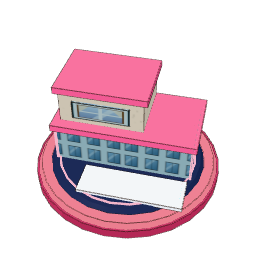
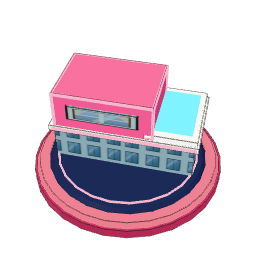
Neon City tiers 1-10: futuristic silhouettes instead of ordinary houses
Claude-Session: https://claude.ai/code/session_01V4YyAKihYYsoGwYTXiWyG9

Changed region(s): [[0.125, 0.1875, 0.875, 0.9375]]

diff --git a/src/models/neon.ts b/src/models/neon.ts
@@ -1,5 +1,5 @@
+import * as THREE from 'three';
 import { Builder, base, shade } from './kit';
-import { house } from './parts';
 import { neonBox, neonRings, panes } from './themekit';
 
 /**
@@ -30,147 +30,163 @@ function door(b: Builder, x: number, z: number, y: number, color: string, w = 0.
   b.box(w + 0.03, 0.014, 0.02, 'glow', lit(color), { x, z: z + 0.004, y: y + h });
 }
 
-/** 1 Power Cube: a solid block in the tier colour with a glowing band (the neon "brick"). */
-const powerCube: Build = (_H, color) => {
-  const b = new Builder();
-  const y = base(b, color);
-  b.box(0.5, 0.3, 0.42, 'gloss', color, { y }, 0.05);
-  b.box(0.52, 0.035, 0.44, 'glow', lit(color), { y: y + 0.13 });
-  for (const x of [-0.13, 0.13]) b.box(0.12, 0.014, 0.12, 'glow', '#ffffff', { x, y: y + 0.3 });
-  return b.finish();
-};
+/** Thick neon strip (reads at small sizes). */
+function strip(b: Builder, w: number, h: number, d: number, color: string, at: { x?: number; y: number; z?: number; rx?: number; ry?: number; rz?: number }) {
+  b.box(w, h, d, 'glow', color, at);
+}
 
-/** 2 Capsule Hut: a tiny white hut with a rounded roof in the tier colour and a round window. */
-const capsuleHut: Build = (_H, color) => {
+/** 1 Neon Cube: a block in the tier colour, outlined in neon, with a glowing visor slit. */
+const neonCube: Build = (_H, color) => {
   const b = new Builder();
   const y = deck(b, base(b, color), color);
-  b.box(0.5, 0.2, 0.38, 'plaster', WHITE, { y });
-  // Barrel roof: a cylinder lying along x, half sunk into the walls.
-  b.cyl(0.2, 0.2, 0.56, 'gloss', color, { y: y + 0.2, x: -0.28, rz: -Math.PI / 2 }, 18);
-  b.cyl(0.205, 0.205, 0.02, 'glow', lit(color), { y: y + 0.2, x: -0.29, rz: -Math.PI / 2 }, 18);
-  b.cyl(0.205, 0.205, 0.02, 'glow', lit(color), { y: y + 0.2, x: 0.27, rz: -Math.PI / 2 }, 18);
-  door(b, -0.1, 0.19, y, color, 0.1, 0.16);
-  b.cyl(0.05, 0.05, 0.016, 'pane', '#ffffff', { x: 0.12, z: 0.19, y: y + 0.1, rx: Math.PI / 2 }, 16);
+  b.box(0.42, 0.32, 0.42, 'gloss', color, { y }, 0.02);
+  neonBox(b, 0.42, 0.32, 0.42, y, lit(color));
+  strip(b, 0.3, 0.05, 0.02, '#ffffff', { y: y + 0.19, z: 0.21 });
+  b.cyl(0.008, 0.008, 0.1, 'gloss', WHITE, { y: y + 0.32, x: 0.12 }, 5);
+  b.sphere(0.022, 'glow', lit(color), { y: y + 0.43, x: 0.12 }, 8);
   return b.finish();
 };
 
-/** 3 Neon Garage: a small garage with a sloped roof and a glowing striped door. */
-const garage: Build = (_H, color) => {
+/** 2 Pod Home: a tiny white pod with a tilted roof in the tier colour, a porthole and a glowing door. */
+const podHome: Build = (_H, color) => {
   const b = new Builder();
   const y = deck(b, base(b, color), color);
-  b.box(0.56, 0.26, 0.44, 'plaster', WHITE, { y });
-  b.box(0.62, 0.04, 0.52, 'gloss', color, { y: y + 0.27, rx: 0.16 });
-  for (let i = 0; i < 4; i++) b.box(0.3, 0.025, 0.016, 'glow', i % 2 ? '#ffffff' : lit(color), { x: -0.08, z: 0.225, y: y + 0.03 + i * 0.045 });
-  b.box(0.1, 0.1, 0.016, 'pane', GLASS, { x: 0.18, z: 0.225, y: y + 0.1 });
-  b.box(0.58, 0.012, 0.012, 'glow', lit(color), { y: y + 0.26, z: 0.23 });
+  b.box(0.48, 0.24, 0.4, 'plaster', WHITE, { y }, 0.03);
+  b.box(0.56, 0.05, 0.48, 'gloss', color, { y: y + 0.22, rz: 0.18 });
+  strip(b, 0.5, 0.022, 0.022, lit(color), { y: y + 0.2, z: 0.21 });
+  door(b, -0.12, 0.2, y, color, 0.1, 0.16);
+  b.cyl(0.055, 0.055, 0.02, 'pane', GLASS, { x: 0.1, z: 0.2, y: y + 0.11, rx: Math.PI / 2 }, 16);
+  b.torus(0.06, 0.01, 'glow', lit(color), { x: 0.1, z: 0.212, y: y + 0.11, rx: Math.PI / 2 });
   return b.finish();
 };
 
-/** 4 Cube Home: two stacked offset white cubes with roof slabs in the tier colour and big windows. */
-const cubeHome: Build = (_H, color) => {
+/** 3 A-Frame Pod: a steep triangle house in the tier colour with a glowing glass front. */
+const aFramePod: Build = (_H, color) => {
   const b = new Builder();
   const y = deck(b, base(b, color), color);
-  b.box(0.56, 0.2, 0.42, 'plaster', WHITE, { y, z: 0.02 });
-  b.box(0.6, 0.035, 0.46, 'gloss', color, { y: y + 0.2, z: 0.02 });
-  b.box(0.36, 0.17, 0.3, 'plaster', WHITE, { y: y + 0.235, x: 0.08, z: -0.04 });
-  b.box(0.4, 0.035, 0.34, 'gloss', color, { y: y + 0.405, x: 0.08, z: -0.04 });
-  b.box(0.26, 0.11, 0.016, 'pane', GLASS, { x: 0.1, z: 0.235, y: y + 0.05 });
-  b.box(0.24, 0.1, 0.016, 'pane', GLASS, { x: 0.08, z: 0.112, y: y + 0.27 });
-  door(b, -0.17, 0.235, y, color, 0.1, 0.16);
-  neonBox(b, 0.56, 0.2, 0.42, y, lit(color), { z: 0.02 });
+  b.gable(0.48, 0.44, 0.5, 'gloss', color, { y, ry: Math.PI / 2 }, 0.03);
+  b.extrude([[-0.19, 0], [0.19, 0], [0, -0.36]], 0.016, 'pane', GLASS, { y: y + 0.015, z: 0.262, rx: Math.PI / 2 });
+  // Neon along both front roof edges.
+  for (const s of [-1, 1]) strip(b, 0.024, 0.52, 0.024, lit(color), { x: s * 0.27, y: y + 0.005, z: 0.275, rz: s * Math.atan2(0.27, 0.44) });
+  door(b, 0, 0.275, y, color, 0.09, 0.15);
   return b.finish();
 };
 
-/** 5 Smart Cottage: a classic gable cottage with a coloured solar roof and neon eaves. */
-const smartCottage: Build = (_H, color) => {
+/** 4 Hexa Home: a six-sided white home with a hex roof in the tier colour and a glass top room. */
+const hexaHome: Build = (_H, color) => {
   const b = new Builder();
   const y = deck(b, base(b, color), color);
-  const top = house(b, { y, w: 0.6, d: 0.44, floors: 1, fh: 0.24, wall: WHITE, roof: color, roofH: 0.22, windows: 3, wallMat: 'plaster', trim: lit(color) });
-  for (const z of [0.25, -0.25]) b.box(0.68, 0.012, 0.012, 'glow', lit(color), { y: top, z });
-  b.box(0.012, 0.012, 0.5, 'glow', lit(color), { y: top + 0.22, x: 0 });
-  b.box(0.06, 0.18, 0.06, 'gloss', PALE, { y: top + 0.04, x: 0.18, z: -0.08 });
-  b.sphere(0.025, 'glow', lit(color), { y: top + 0.24, x: 0.18, z: -0.08 }, 8);
+  const r = Math.PI / 6;
+  b.cyl(0.29, 0.29, 0.24, 'plaster', WHITE, { y, ry: r }, 6);
+  b.cyl(0.35, 0.32, 0.05, 'gloss', color, { y: y + 0.24, ry: r }, 6);
+  b.torus(0.33, 0.012, 'glow', lit(color), { y: y + 0.245 });
+  b.cyl(0.17, 0.17, 0.12, 'window', GLASS, { y: y + 0.29, ry: r }, 6);
+  b.cyl(0.2, 0.17, 0.04, 'gloss', color, { y: y + 0.41, ry: r }, 6);
+  door(b, 0, 0.255, y, color, 0.1, 0.17);
+  for (const a of [-1, 1]) b.box(0.08, 0.08, 0.016, 'pane', GLASS, { x: Math.sin(a * 1.05) * 0.255, z: Math.cos(a * 1.05) * 0.255, y: y + 0.09, ry: a * 1.05 });
   return b.finish();
 };
 
-/** 6 Neon House: a two-storey gable house with lit windows and a neon outline. */
-const neonHouse: Build = (_H, color) => {
+/** 5 Wedge House: a modern house whose roof in the tier colour sweeps up into a glass wall. */
+const wedgeHouse: Build = (_H, color) => {
   const b = new Builder();
   const y = deck(b, base(b, color), color);
-  const h = 0.4;
-  const top = house(b, { y, w: 0.64, d: 0.48, floors: 2, fh: 0.2, wall: WHITE, roof: color, roofH: 0.24, windows: 3, wallMat: 'plaster', trim: lit(color) });
-  neonBox(b, 0.64, h, 0.48, y, lit(color));
-  for (const z of [0.27, -0.27]) b.box(0.72, 0.012, 0.012, 'glow', lit(color), { y: top, z });
+  const prof = new THREE.Shape([new THREE.Vector2(-0.3, 0), new THREE.Vector2(0.3, 0), new THREE.Vector2(0.3, 0.42), new THREE.Vector2(-0.3, 0.2)]);
+  const g = new THREE.ExtrudeGeometry(prof, { depth: 0.44, bevelEnabled: false });
+  g.translate(0, 0, -0.22);
+  b.add(g, 'plaster', WHITE, { y });
+  const slope = Math.atan2(0.22, 0.6);
+  b.box(0.68, 0.04, 0.52, 'gloss', color, { y: y + 0.3, rz: slope });
+  strip(b, 0.68, 0.022, 0.022, lit(color), { y: y + 0.34, z: 0.26, rz: slope });
+  b.box(0.22, 0.26, 0.016, 'pane', GLASS, { x: 0.15, y: y + 0.04, z: 0.222 });
+  door(b, -0.13, 0.222, y, color, 0.1, 0.16);
   return b.finish();
 };
 
-/** 7 Hover House: a modern two-storey house floating over a glowing pad. */
+/** 6 Stack House: a glass ground floor with a long box in the tier colour cantilevered across it. */
+const stackHouse: Build = (_H, color) => {
+  const b = new Builder();
+  const y = deck(b, base(b, color), color);
+  b.box(0.56, 0.18, 0.34, 'window', GLASS, { y, z: -0.04 });
+  b.box(0.6, 0.03, 0.38, 'gloss', WHITE, { y: y + 0.18, z: -0.04 });
+  b.box(0.3, 0.2, 0.64, 'gloss', color, { y: y + 0.21, x: 0.1 });
+  b.box(0.22, 0.08, 0.016, 'pane', GLASS, { y: y + 0.27, x: 0.1, z: 0.322 });
+  neonBox(b, 0.3, 0.2, 0.64, y + 0.21, lit(color), { x: 0.1 });
+  neonBox(b, 0.56, 0.18, 0.34, y, lit(color), { z: -0.04 });
+  return b.finish();
+};
+
+/** 7 Hover House: a house in the tier colour floating on four glowing thrusters. */
 const hoverHouse: Build = (_H, color) => {
   const b = new Builder();
   const y = deck(b, base(b, color), color);
   b.cyl(0.3, 0.32, 0.02, 'glow', lit(color), { y }, 22);
   b.animated(
     (s) => {
-      s.box(0.64, 0.2, 0.44, 'plaster', WHITE, {}, 0.03);
-      s.box(0.54, 0.1, 0.016, 'pane', GLASS, { y: 0.05, z: 0.222 });
-      s.box(0.68, 0.035, 0.48, 'gloss', color, { y: 0.2 });
-      s.box(0.42, 0.16, 0.34, 'plaster', WHITE, { y: 0.235, x: 0.08 });
-      s.box(0.32, 0.09, 0.016, 'pane', GLASS, { y: 0.27, x: 0.08, z: 0.172 });
-      s.box(0.46, 0.035, 0.38, 'gloss', color, { y: 0.395, x: 0.08 });
-      s.box(0.66, 0.012, 0.46, 'glow', lit(color), { y: -0.012 });
+      for (const [x, z] of [[-0.22, -0.14], [0.22, -0.14], [-0.22, 0.14], [0.22, 0.14]] as const) {
+        s.cyl(0.05, 0.035, 0.05, 'gloss', WHITE, { x, z, y: -0.05 }, 10);
+        s.cone(0.035, 0.08, 'glow', lit(color), { x, z, y: -0.05, rx: Math.PI }, 8);
+      }
+      s.box(0.62, 0.22, 0.42, 'gloss', color, {}, 0.05);
+      s.box(0.5, 0.08, 0.016, 'pane', GLASS, { y: 0.1, z: 0.212 });
+      s.box(0.46, 0.12, 0.32, 'plaster', WHITE, { y: 0.22, x: -0.04 }, 0.03);
+      s.box(0.3, 0.06, 0.016, 'pane', GLASS, { y: 0.25, x: -0.04, z: 0.162 });
+      s.box(0.64, 0.022, 0.022, 'glow', lit(color), { y: 0.02, z: 0.215 });
     },
     { type: 'bob', amp: 0.02, speed: 1.8 },
-    { y: y + 0.09 },
+    { y: y + 0.13 },
   );
   return b.finish();
 };
 
-/** 8 Glass Villa: a wide modern villa with a glass ground floor, coloured roofs and a glowing pool. */
-const glassVilla: Build = (_H, color) => {
+/** 8 Sky Villa: a wide villa with a glass ground floor, an upper volume in the tier colour and a glowing pool deck. */
+const skyVilla: Build = (_H, color) => {
   const b = new Builder();
   const y = deck(b, base(b, color), color);
-  b.box(0.72, 0.2, 0.36, 'window', GLASS, { y, z: -0.06 });
-  b.box(0.76, 0.035, 0.4, 'gloss', color, { y: y + 0.2, z: -0.06 });
-  b.box(0.44, 0.18, 0.32, 'plaster', WHITE, { y: y + 0.235, x: -0.12, z: -0.08 });
-  b.box(0.3, 0.1, 0.016, 'pane', GLASS, { y: y + 0.27, x: -0.12, z: 0.082 });
-  b.box(0.48, 0.035, 0.36, 'gloss', color, { y: y + 0.415, x: -0.12, z: -0.08 });
-  b.box(0.5, 0.014, 0.14, 'glow', '#7ff3ff', { y, x: 0.08, z: 0.25 });
-  b.box(0.54, 0.02, 0.18, 'gloss', PALE, { y: y - 0.004, x: 0.08, z: 0.25 });
-  neonBox(b, 0.72, 0.2, 0.36, y, lit(color), { z: -0.06 });
+  b.box(0.72, 0.18, 0.38, 'window', GLASS, { y, z: -0.08 });
+  b.box(0.76, 0.03, 0.42, 'gloss', WHITE, { y: y + 0.18, z: -0.08 });
+  b.box(0.5, 0.2, 0.36, 'gloss', color, { y: y + 0.21, x: -0.1, z: -0.06 });
+  b.box(0.36, 0.08, 0.016, 'pane', GLASS, { y: y + 0.27, x: -0.1, z: 0.122 });
+  b.box(0.26, 0.03, 0.4, 'gloss', WHITE, { y: y + 0.21, x: 0.24, z: -0.08 });
+  b.box(0.2, 0.012, 0.32, 'glow', '#7ff3ff', { y: y + 0.24, x: 0.24, z: -0.08 });
+  neonBox(b, 0.5, 0.2, 0.36, y + 0.21, lit(color), { x: -0.1, z: -0.06 });
+  strip(b, 0.74, 0.022, 0.022, lit(color), { y: y + 0.18, z: 0.12 });
   return b.finish();
 };
 
-/** 9 Neon Townhouses: three narrow gabled townhouses, each outlined in neon. */
-const townhouses: Build = (_H, color) => {
+/** 9 Neon Rowhouses: three tall narrow homes with zig-zag roofs and vertical neon signs. */
+const rowhouses: Build = (_H, color) => {
   const b = new Builder();
   const y = deck(b, base(b, color), color);
-  const walls = [WHITE, PALE, WHITE];
-  [-0.26, 0, 0.26].forEach((x, i) => {
-    const floors = i === 1 ? 3 : 2;
-    const top = house(b, { y, x, w: 0.24, d: 0.42, floors, fh: 0.17, wall: walls[i], roof: i === 1 ? color : shade(color, 0.85), roofH: 0.16, windows: 1, door: i !== 1, wallMat: 'plaster', trim: lit(color) });
-    b.box(0.012, top - y, 0.012, 'glow', lit(color), { y, x: x - 0.12, z: 0.22 });
-    b.box(0.26, 0.012, 0.012, 'glow', lit(color), { y: top, x, z: 0.22 });
+  [-0.24, 0, 0.24].forEach((x, i) => {
+    const h = [0.42, 0.5, 0.38][i];
+    b.box(0.22, h, 0.4, i === 1 ? 'gloss' : 'plaster', i === 1 ? color : WHITE, { y, x });
+    b.box(0.26, 0.04, 0.44, 'gloss', i === 1 ? WHITE : color, { y: y + h, x, rz: i % 2 ? -0.35 : 0.35 });
+    panes(b, x - 0.08, x + 0.08, y + h * 0.55, 0.205, 1, 0.1, GLASS);
+    strip(b, 0.03, h * 0.5, 0.02, lit(color), { y: y + h * 0.2, x: x + 0.085, z: 0.21 });
+    door(b, x - 0.03, 0.205, y, color, 0.07, 0.13);
   });
   return b.finish();
 };
 
-/** 10 Neon Apartments: a five-storey white block with coloured balconies and lit windows. */
-const apartments: Build = (H, color) => {
+/** 10 Pod Tower: capsule homes in the tier colour stacked in a spiral around a white core. */
+const podTower: Build = (H, color) => {
   const b = new Builder();
   const y = deck(b, base(b, color), color);
-  const floors = 5;
-  const fh = Math.max(0.12, (H - 0.2) / floors);
-  b.box(0.66, fh * floors, 0.44, 'plaster', WHITE, { y, z: -0.03 });
-  for (let f = 0; f < floors; f++) {
-    const fy = y + f * fh;
-    panes(b, -0.28, 0.28, fy + fh * 0.25, 0.195, 4, fh * 0.5, GLASS);
-    if (f > 0) {
-      b.box(0.7, 0.02, 0.08, 'gloss', color, { y: fy, z: 0.22 });
-      b.box(0.7, 0.012, 0.012, 'glow', lit(color), { y: fy + fh * 0.32, z: 0.26 });
-    }
+  const h = Math.max(0.7, H - 0.2);
+  b.cyl(0.09, 0.1, h, 'gloss', WHITE, { y }, 12);
+  const n = 7;
+  for (let i = 0; i < n; i++) {
+    const a = i * 2.2;
+    const py = y + 0.02 + (h - 0.16) * (i / (n - 1));
+    const x = Math.sin(a) * 0.2;
+    const z = Math.cos(a) * 0.2;
+    b.box(0.26, 0.13, 0.18, 'gloss', i % 2 ? color : shade(color, 1.15), { x, z, y: py, ry: a });
+    b.box(0.14, 0.05, 0.012, 'pane', GLASS, { x: x + Math.sin(a) * 0.092, z: z + Math.cos(a) * 0.092, y: py + 0.045, ry: a });
+    b.box(0.2, 0.014, 0.014, 'glow', lit(color), { x: x + Math.sin(a) * 0.095, z: z + Math.cos(a) * 0.095, y: py + 0.012, ry: a });
   }
-  b.box(0.7, 0.04, 0.48, 'gloss', color, { y: y + floors * fh, z: -0.03 });
-  door(b, 0, 0.195, y, color, 0.12, fh * 0.8);
+  b.cyl(0.008, 0.008, 0.18, 'gloss', WHITE, { y: y + h }, 5);
+  b.sphere(0.025, 'glow', lit(color), { y: y + h + 0.18 }, 8);
   return b.finish();
 };
 
@@ -329,6 +345,6 @@ const orbital: Build = (H, color) => {
 };
 
 export const NEON: Build[] = [
-  powerCube, capsuleHut, garage, cubeHome, smartCottage, neonHouse, hoverHouse, glassVilla, townhouses,
-  apartments, arcology, neonTower, holoSky, helix, megaSpire, cyberHQ, skyDome, orbital,
+  neonCube, podHome, aFramePod, hexaHome, wedgeHouse, stackHouse, hoverHouse, skyVilla, rowhouses,
+  podTower, arcology, neonTower, holoSky, helix, megaSpire, cyberHQ, skyDome, orbital,
 ];

diff --git a/src/core/themes.ts b/src/core/themes.ts
@@ -108,7 +108,7 @@ export const THEMES: Record<ThemeId, Theme> = {
     name: 'Neon City',
     tagline: 'Glowing homes of the future',
     names: [
-      'Power Cube', 'Capsule Hut', 'Neon Garage', 'Cube Home', 'Smart Cottage', 'Neon House', 'Hover House', 'Glass Villa', 'Neon Townhouses', 'Neon Apartments', 'Arcology', 'Neon Tower', 'Holo Skyscraper', 'Helix Tower', 'Mega Spire', 'Cyber HQ', 'Sky Dome', 'Orbital Tower',
+      'Neon Cube', 'Pod Home', 'A-Frame Pod', 'Hexa Home', 'Wedge House', 'Stack House', 'Hover House', 'Sky Villa', 'Neon Rowhouses', 'Pod Tower', 'Arcology', 'Neon Tower', 'Holo Skyscraper', 'Helix Tower', 'Mega Spire', 'Cyber HQ', 'Sky Dome', 'Orbital Tower',
     ],
     art: 'bg/neon.webp',
     rail: '#3a4256',

diff --git a/tools/make_levels.py b/tools/make_levels.py
@@ -34,7 +34,7 @@ THEMES = [
     (2, 'Tropical Beach', 4, ['Sandcastle', 'Beach Hut', 'Lifeguard Tower', 'Tiki Hut', 'Surf Shack', 'Beach Cottage', 'Stilt House', 'Overwater Bungalow', 'Bungalow Pier', 'Pool Villa', 'Seaside Apartments', 'Beach Resort', 'Palm Hotel', 'Sail Tower', 'Lagoon Resort', 'Coral Palace', 'Island Citadel', 'Paradise Spire']),
     (3, 'Alpine Peaks', 5, ['Woodpile', 'Tent', "Hunter's Hut", 'A-Frame Cabin', 'Log Cabin', 'Big Log Cabin', 'Luxury Log Cabin', 'Chalet', 'Ski Lodge', 'Mountain Villa', 'Grand Chalet', 'Alpine Hotel', 'Cliff Villa', 'Peak Resort', 'Cable Car Station', 'Mountain Castle', 'Glacier Palace', 'Summit Observatory']),
     (4, 'Sweet Town', 6, ['Sugar Cube', 'Cupcake Hut', 'Candy Kiosk', 'Gingerbread Cabin', 'Cookie Cottage', 'Gingerbread House', 'Donut House', 'Layer Cake Manor', 'Macaron Row', 'Ice Cream Parlour', 'Chocolate Block', 'Lollipop Tower', 'Candy Cane Tower', 'Soft-Serve Swirl', 'Wedding Cake Tower', 'Candy Castle', 'Sundae Citadel', 'Rainbow Spire']),
-    (5, 'Neon City', 6, ['Power Cube', 'Capsule Hut', 'Neon Garage', 'Cube Home', 'Smart Cottage', 'Neon House', 'Hover House', 'Glass Villa', 'Neon Townhouses', 'Neon Apartments', 'Arcology', 'Neon Tower', 'Holo Skyscraper', 'Helix Tower', 'Mega Spire', 'Cyber HQ', 'Sky Dome', 'Orbital Tower']),
+    (5, 'Neon City', 6, ['Neon Cube', 'Pod Home', 'A-Frame Pod', 'Hexa Home', 'Wedge House', 'Stack House', 'Hover House', 'Sky Villa', 'Neon Rowhouses', 'Pod Tower', 'Arcology', 'Neon Tower', 'Holo Skyscraper', 'Helix Tower', 'Mega Spire', 'Cyber HQ', 'Sky Dome', 'Orbital Tower']),
 ]
 MAX_CONTRACT = 10
 

diff --git a/DECISIONS.md b/DECISIONS.md
@@ -471,3 +471,9 @@ New lineup: Power Cube → Capsule Hut (barrel roof) → Neon Garage → Cube Ho
 - **Calm effects** (Settings) now covers everything added since it was introduced: no confetti (theme arrivals, level clears), no looping bounces on the map (clouds, "?" badge, the builder pin, the current level, the Play button), the level card fades in instead of dropping and swinging, and no score-box pop. The system's Reduce Motion setting gets the same treatment, and the animated backdrop thins out under both.
 - **Large text** already scales every screen, including the new map and its cards.
 - **Colour blindness:** the 18 tier colours were checked under simulated deuteranopia, protanopia and tritanopia. The closest neighbouring pair is still ΔE ≈ 12 apart (tiers 11/12 for tritanopia, 3/4 for deuteranopia), which is clearly distinguishable, and every building also carries its tier number on the badge. The aim preview tells its levels apart by size, brightness and the rainbow chase as well as by colour.
+
+**Neon tiers 1-10 redesigned again (playtest feedback):** the first rebuild read clearly but looked like ordinary suburban houses. Tiers 11-18 stay; 1-10 are now futuristic, each with its own silhouette, the tier colour as the main body, and thick neon trim:
+
+Neon Cube → Pod Home (tilted roof, porthole) → A-Frame Pod (glass triangle front) → Hexa Home (six-sided with a glass top room) → Wedge House (roof sweeping up into a glass wall) → Stack House (box cantilevered across a glass floor) → Hover House (on four glowing thrusters) → Sky Villa → Neon Rowhouses (zig-zag roofs, neon signs) → Pod Tower (capsule homes spiralling round a core).
+
+District 5 level names were renamed in place.
